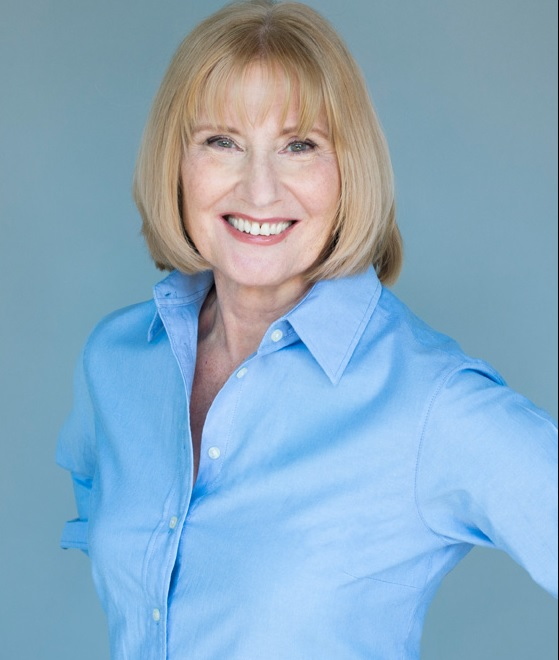
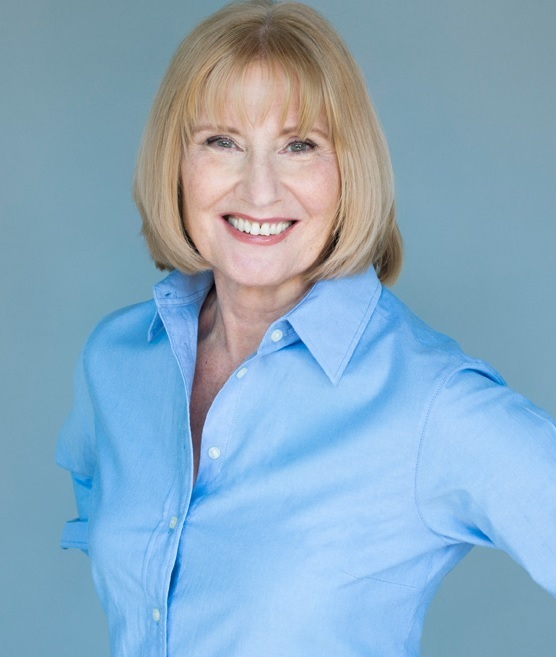
test different background color

diff --git a/src/components/Info.js b/src/components/Info.js
@@ -2,11 +2,11 @@ import React from 'react'
 import styled from 'styled-components';
 import { graphql, useStaticQuery } from 'gatsby';
 import Image from 'gatsby-image';
-import paper from '../images/paper.png';
+import subtle from '../images/subtle-dark-vertical.png';
 
 const getImage = graphql`
   query {
-    defaultBcg:file(relativePath: {eq: "headshots/headshot4.jpg"}) {
+    defaultBcg:file(relativePath: {eq: "headshots/headshot1.jpg"}) {
       childImageSharp {
         fluid {
           ...GatsbyImageSharpFluid
@@ -42,8 +42,11 @@ grid-column-gap:2rem;
 padding:1.5rem 1rem;
 justify-content:center;
 align-items: start;
-background-color: #f2f4fb;
-background-image: url(${paper});
+/* background-color: #f2f4fb; */
+/* background-color: #131217; */
+background-color: var(--lightestPurple);
+/* color: white; */
+background-image: url(${subtle});
 margin: 0 auto;
 
 .info-text {
@@ -57,7 +60,6 @@ margin: 0 auto;
   font-weight: 300;
   font-size: 2rem;
   margin-bottom: 0.4rem;
-  letter-spacing: 0.1rem;
 }
 
 .info-text p{

diff --git a/src/components/Productions/ProductionsItem.js b/src/components/Productions/ProductionsItem.js
@@ -12,8 +12,6 @@ const ProductionsItem = ({ item }) => {
           <p><strong>{show}</strong> by {company}</p>
         </div>
 
-
-
         {/* POSTER LAYOVER */}
         <div className="poster-layover">
           <button className="btn production-btn">learn more<hr className="short-hr" />
@@ -31,21 +29,14 @@ const ProductionsItemWrapper = styled.div`
   transition: var(--transition);
   display: grid;
   position:relative;
-  border-top-left-radius: 5px;
-  border-top-right-radius: 5px;
 }
 
 .poster-gatsby-img{
   height: 25rem;
-  border-top-left-radius: 5px;
-  border-top-right-radius: 5px;
 }
 
 .poster-footer{
   padding: 0.5rem;
-  background: rgba(255,255,255,0.5);
-  border-bottom-left-radius: 5px;
-  border-bottom-right-radius: 5px;
 }
 
 .poster-layover{
@@ -60,7 +51,6 @@ const ProductionsItemWrapper = styled.div`
   display:flex;
   justify-content: flex-start;
   align-items: flex-end;
-  border-radius: 10px;
 }
 
 .poster-img:hover .poster-layover{

diff --git a/src/css/global.css b/src/css/global.css
@@ -25,7 +25,6 @@ Variables
   --beige: #ece7df;
   --mainFont: "Poppins", sans-serif;
   --titleFont: "Oswald", sans-serif;
-  --cursiveFont: "Playball", cursive;
   --transition: all 0.2s linear;
   --minHeight: calc(100vh - 213px);
 }
@@ -131,7 +130,7 @@ Button
 }
 
 .filter-btn {
-  margin: 2rem 0.5rem 3rem;
+  margin: 0 0.5rem 3rem;
   padding: 0.5rem 1rem;
   /* background: var(--lightPurple); */
   color: var(--mainPurple);
@@ -168,6 +167,7 @@ Button
 .blog-btn {
   overflow: hidden;
   text-align: center;
+  border-radius:2rem;
 }
 
 .about-btn:after,
@@ -197,7 +197,7 @@ Button
 .about-btn:hover:after,
 .contact-btn:hover:after,
 .blog-btn:hover:after {
-  width: 90%;
+  width: 100%;
   opacity: 1;
 }
 

diff --git a/src/pages/reviews.js b/src/pages/reviews.js
@@ -3,6 +3,7 @@ import Layout from '../components/Layout';
 import Title from '../components/Title';
 import ReviewList from '../components/Reviews/ReviewList';
 import SEO from '../components/SEO';
+import SubmitReview from '../components/Reviews/SubmitReview';
 
 const Reviews = () => {
   return (
@@ -14,6 +15,7 @@ const Reviews = () => {
           subtitle="See what Heather's students and press are saying about her work"
         />
         <ReviewList />
+        <SubmitReview />
       </div>
     </Layout>
   )

diff --git a/src/components/Reviews/SubmitReview.js b/src/components/Reviews/SubmitReview.js
@@ -1,0 +1,17 @@
+import React from 'react';
+import { Link } from 'gatsby';
+import BannerSubtitle from '../BannerSubtitle';
+import clap from '../../images/clap.png';
+
+const SubmitReview = () => {
+  return (
+    <div>
+      <BannerSubtitle icon={clap} title="Send Heather Your Reviews!" />
+      <a href="" style={{ display:'flex', justifyContent:'center', marginTop:'2rem' }}>
+        <button className="btn about-btn">send email</button>
+      </a>
+    </div>
+  )
+}
+
+export default SubmitReview

diff --git a/src/components/BannerSubtitle.js b/src/components/BannerSubtitle.js
@@ -1,12 +1,12 @@
 import React from 'react'
 import styled from 'styled-components';
 
-const BannerSubtitle = ({icon, title}) => {
+const BannerSubtitle = ({ icon, title }) => {
   return (
     <BannerWrapper>
       <h2 className="event-title">
-        <img src={icon} className="horn" />  {title}
-        </h2>
+        <img src={icon} className="horn" alt="horn" />  {title}
+      </h2>
     </BannerWrapper>
   )
 }

diff --git a/src/components/About/Resume/ResumeList.js b/src/components/About/Resume/ResumeList.js
@@ -114,9 +114,10 @@ margin:3rem auto;
   margin: 1rem 0;
   letter-spacing: 0.1rem;
   display:inline-block;
-  background: url(${Brush});
+  /* background: url(${Brush});
   background-size: cover;
-  background-position:center;
+  background-position:center; */
+  color: var(--lighterPurple);
 }
 
 .about-btn-container {

diff --git a/src/pages/about.js b/src/pages/about.js
@@ -11,7 +11,7 @@ import SEO from '../components/SEO';
 
 export const query = graphql`
   query {
-    aboutImg: file(relativePath:{eq:"headshots/headshot4.jpg"}){
+    aboutImg: file(relativePath:{eq:"headshots/headshot1.jpg"}){
       childImageSharp {
         fluid {
           ...GatsbyImageSharpFluid

diff --git a/src/components/Reviews/ReviewList.js b/src/components/Reviews/ReviewList.js
@@ -23,6 +23,7 @@ grid-template-columns: repeat(auto-fit, minmax(350px, 1fr));
 align-items:start;
 grid-gap: 4rem;
 padding: 2rem 4rem;
+margin-bottom: 5rem;
 @media(max-width: 576px){
   margin: 0 1rem;
   padding: 0;

diff --git a/src/components/About/Audio/Audio.js b/src/components/About/Audio/Audio.js
@@ -22,6 +22,8 @@ const Audio = () => {
 
 const AudioWrapper = styled.section`
 background:var(--lightPurple);
+/* background:#131217; */
+background:#333;
 padding:3rem 1rem;
 
 .max-width{
